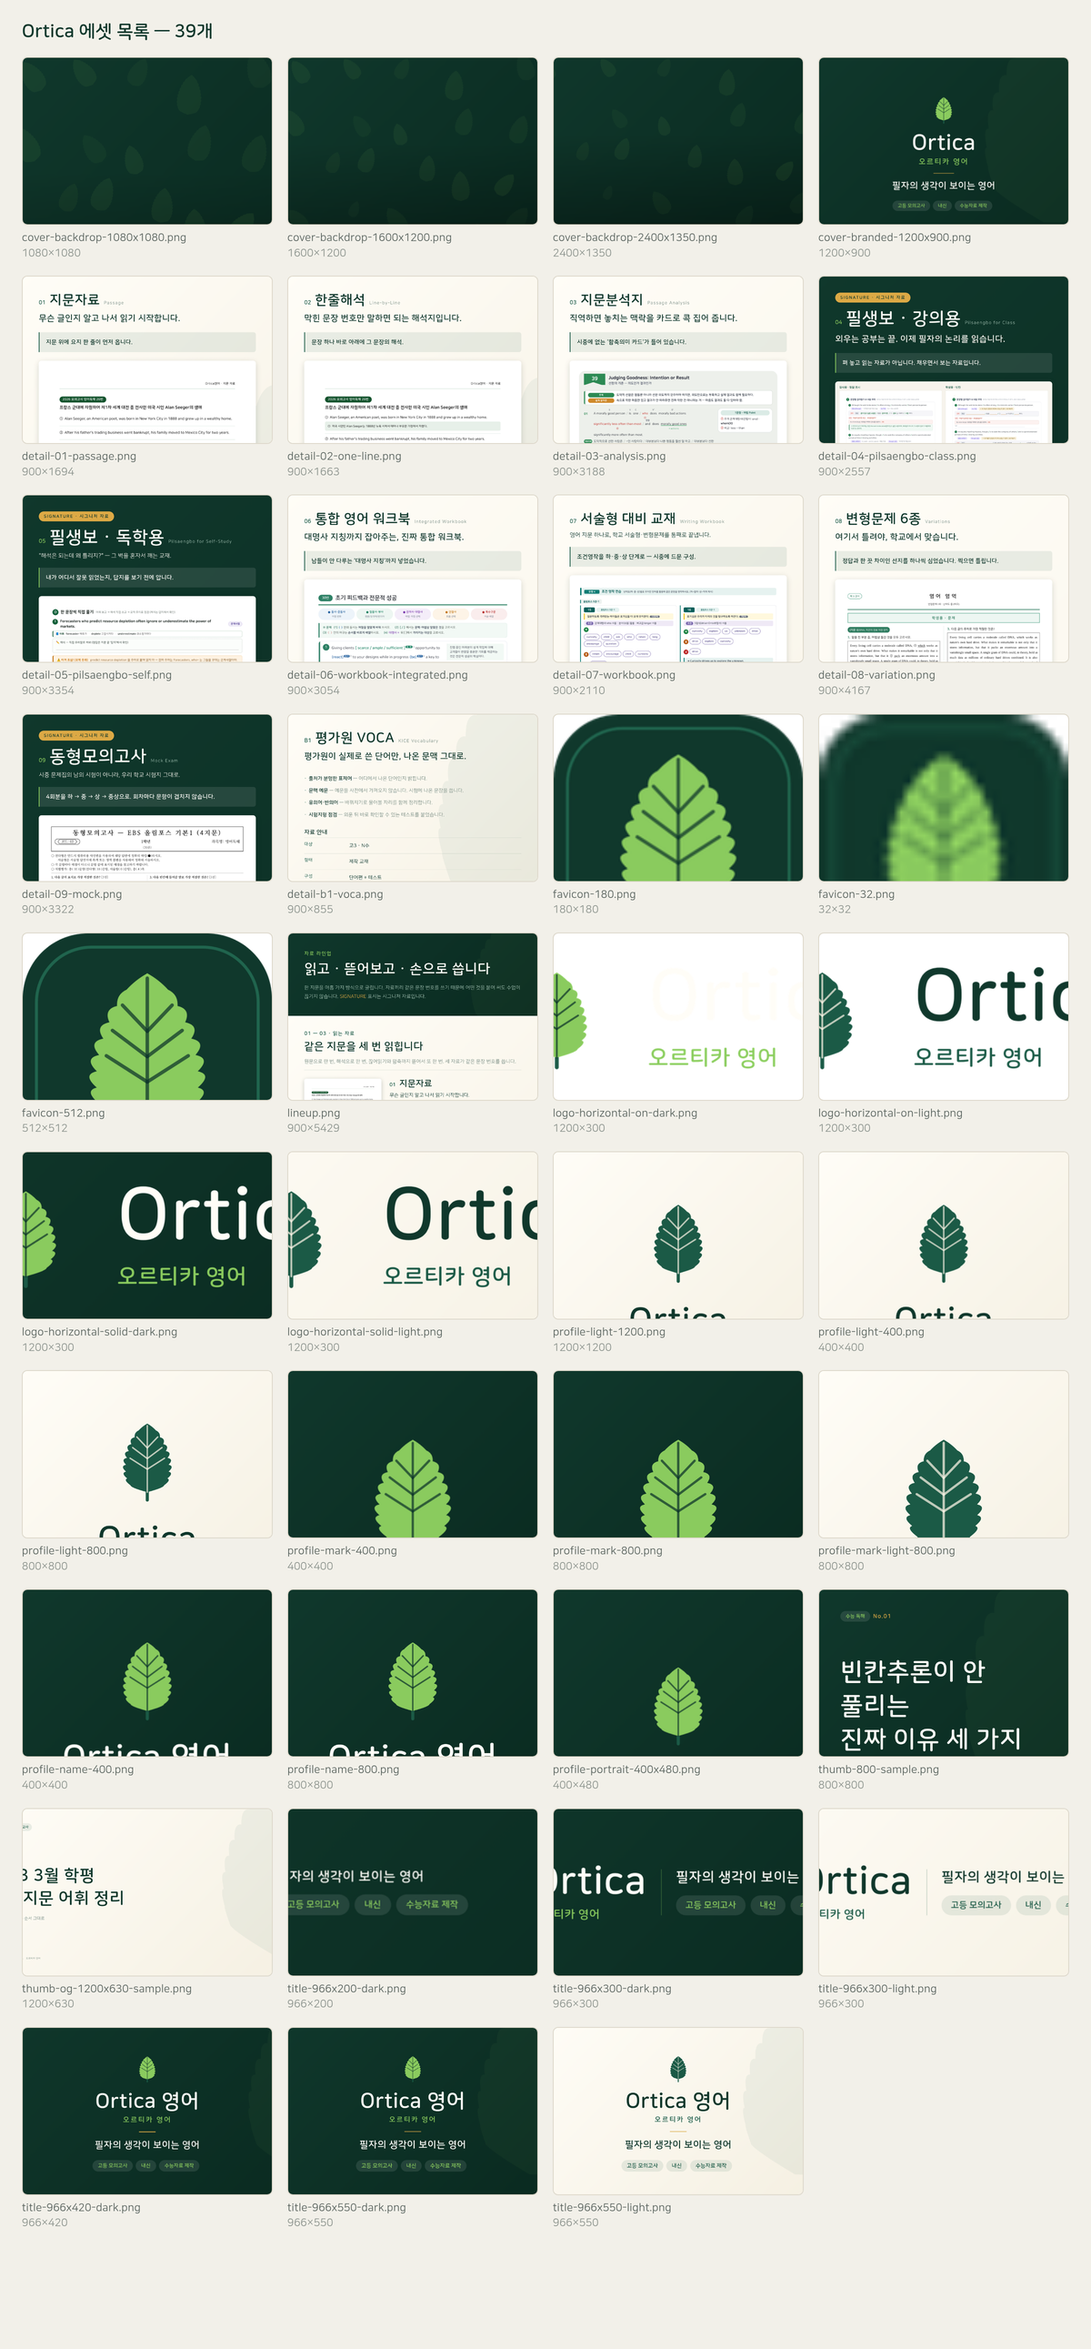
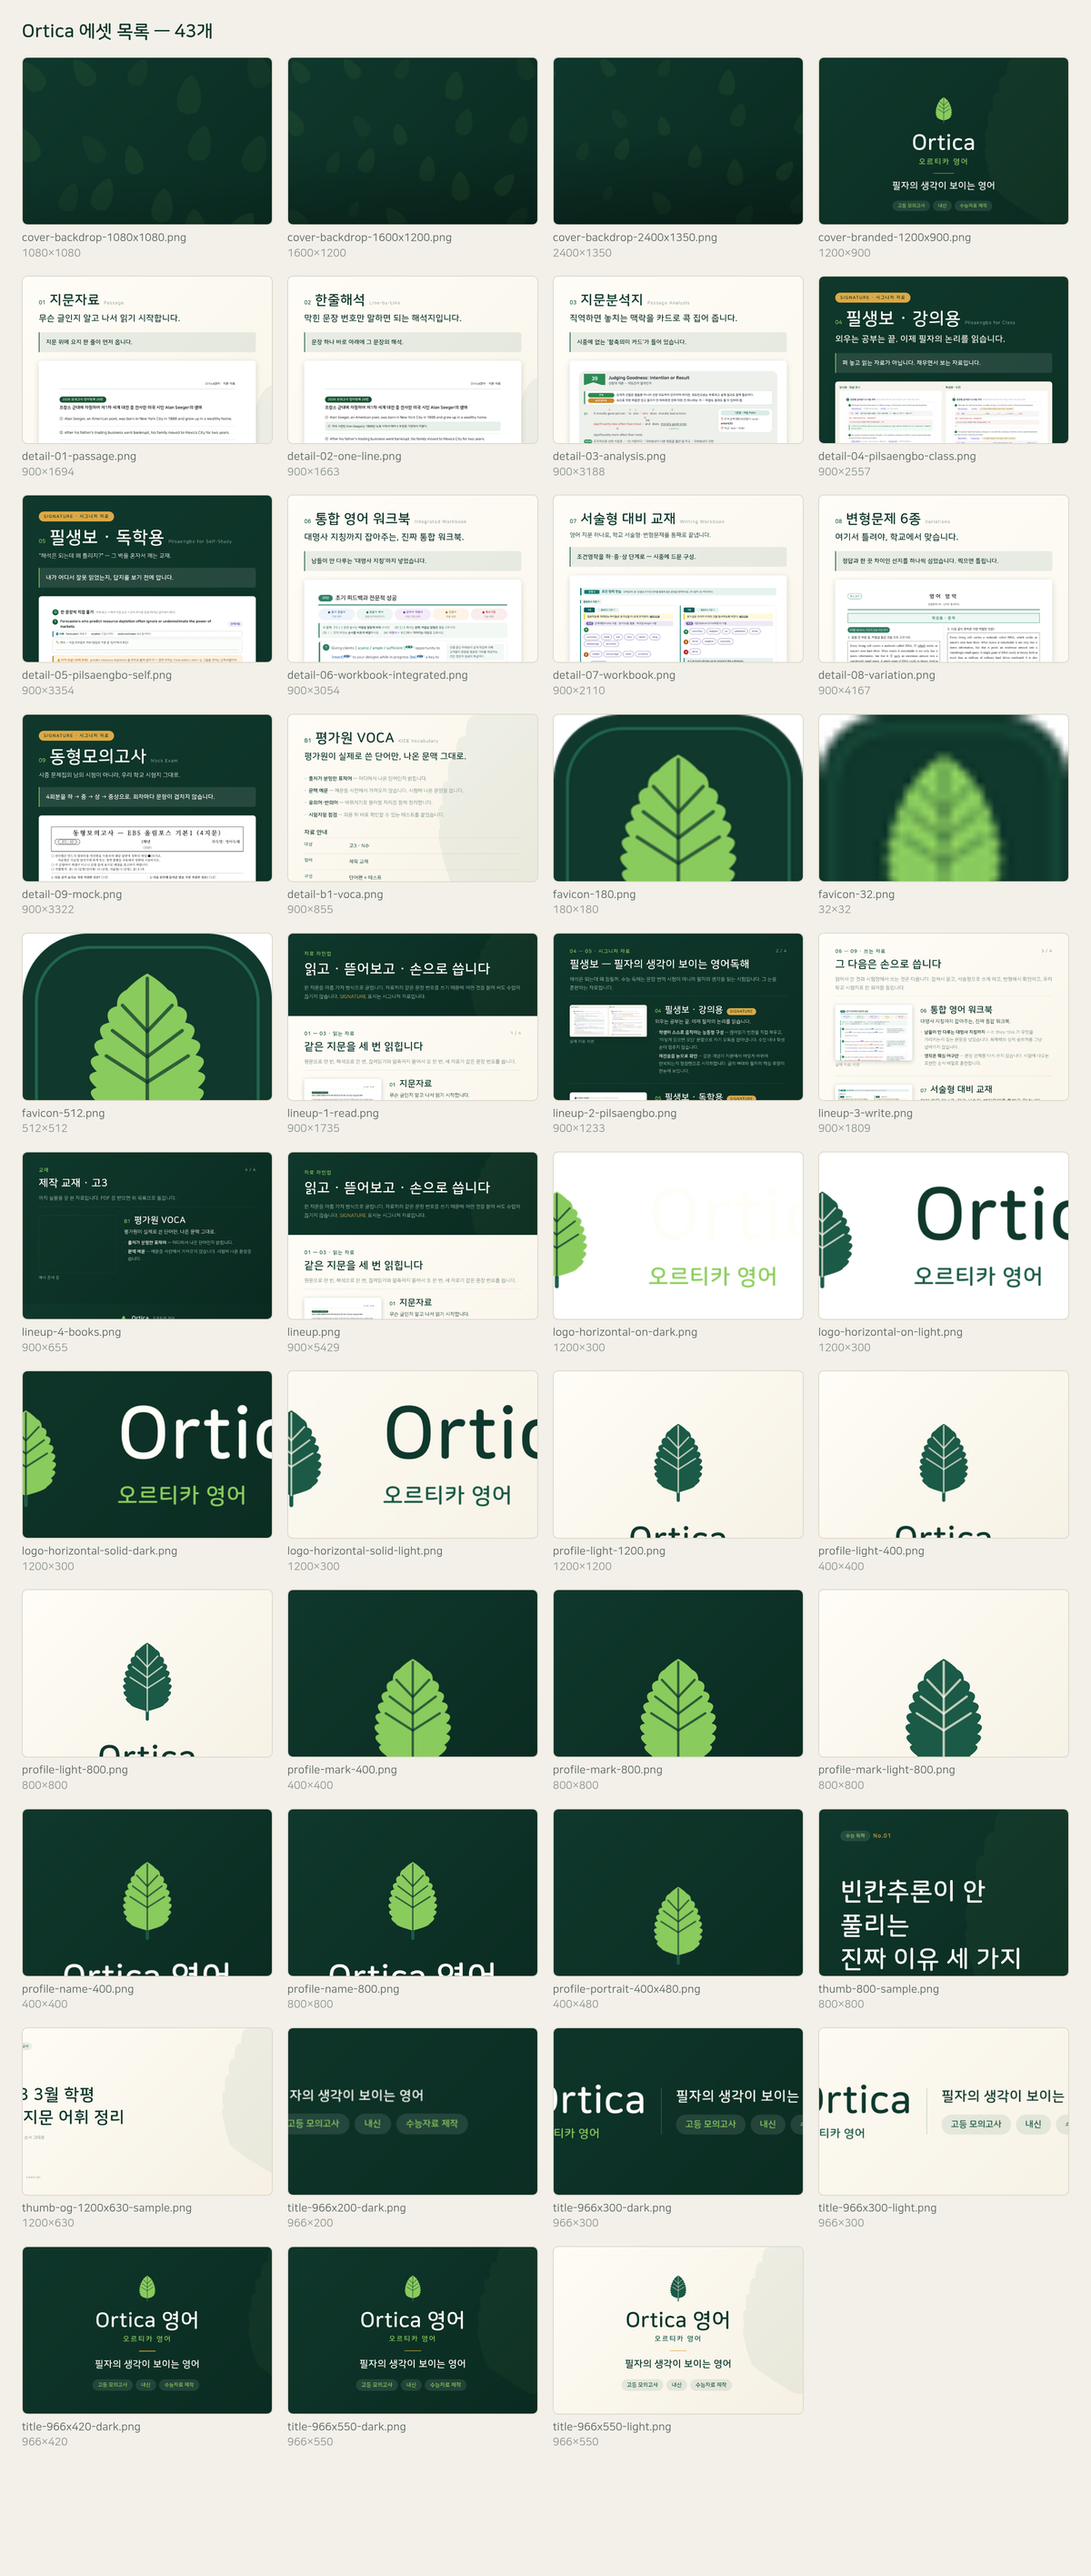
라인업을 묶음 경계에서 넷으로 자름
한 장(5,429px)은 올리기도 보기도 부담이다. 디자인은 한 흐름으로 두고 띠
경계에서만 자른다. 순서대로 올리면 이어진 한 장처럼 읽히고, 한 장으로
올리고 싶으면 lineup.png 를 그대로 쓰면 된다.

- build_lineup(part=i) — 그 묶음만. 머리말은 첫 조각에, 꼬리말은 마지막
  조각에만 붙는다. 조각에는 오른쪽 위에 '2 / 4' 순서 표시를 넣는다.
- lineup-1-read / -2-pilsaengbo / -3-write / -4-books 네 장 추가
- 00-lineup.md 가 네 조각을 묶음 순서대로 끼워 넣는다

Claude-Session: https://claude.ai/code/session_015BpsJgtaBR6xs1aCKnE4xw

diff --git a/brand/build.py b/brand/build.py
@@ -475,44 +475,57 @@ def lineup_sections():
     ]
 
 
-def build_lineup(width: int = DOC_W) -> tuple[str, int]:
-    """자료 전체 라인업 — 한 장.
+def build_lineup(width: int = DOC_W, part: int | None = None) -> tuple[str, int]:
+    """자료 라인업.
 
-    묶음마다 이미지를 나눠 두면 블로그에 올릴 때 순서가 흐트러지고, 읽는 사람은
-    어디까지가 한 목록인지 모른 채 끊긴다. 한 장에 다 세우고 묶음은 바탕색으로
-    가른다. 밝은 판과 어두운 판이 번갈아 나오면 어디서 묶음이 바뀌는지 보인다.
+    묶음마다 디자인을 새로 시작하면 어디까지가 한 목록인지 안 보인다. 그래서
+    한 흐름으로 짜 놓고 **묶음 경계에서만** 자른다. 바탕색이 밝은 판과 어두운
+    판으로 번갈아 가므로, 순서대로 올리면 이어진 한 장처럼 읽힌다.
+
+    part=None : 전부 이어 붙인 한 장
+    part=0..3 : 그 묶음만. 0 에는 머리말이, 마지막에는 꼬리말이 함께 붙는다.
     """
     u = width / 100
+    secs = lineup_sections()
+    chosen = list(enumerate(secs)) if part is None else [(part, secs[part])]
+    with_head = part is None or part == 0
+    with_foot = part is None or part == len(secs) - 1
 
     head_t = theme(True)
-    header = f"""<div style="position:relative;background:{head_t['bg']};
-      padding:{u * 7:.0f}px {u * 6.5:.0f}px {u * 6:.0f}px;overflow:hidden">
-      <svg xmlns="http://www.w3.org/2000/svg" viewBox="0 0 {width} {u * 46:.0f}"
-           width="{width}" height="{u * 46:.0f}"
-           style="position:absolute;inset:0;pointer-events:none">
-        <path d="{leaf_path(width * 0.86, u * 40, u * 62, u * 38, teeth=13, depth=0.055, tilt=18)}"
-              fill="{head_t['wm']}" fill-opacity="{head_t['wm_op']}"/></svg>
-      <div style="position:relative">
-        <div class="ko" style="font-size:{u * 2.0:.0f}px;color:{head_t['accent']};
-             letter-spacing:.12em">자료 라인업</div>
-        <div class="ko" style="margin-top:{u * 1.4:.0f}px;font-size:{u * 5.6:.0f}px;
-             color:{head_t['fg']};line-height:1.32;word-break:keep-all">
-          읽고 · 뜯어보고 · 손으로 씁니다</div>
-        <div class="sans" style="margin-top:{u * 2.0:.0f}px;font-size:{u * 2.05:.0f}px;
-             color:{head_t['muted']};line-height:1.75;word-break:keep-all">
-          한 지문을 아홉 가지 방식으로 굴립니다. 자료끼리 같은 문장 번호를 쓰기 때문에
-          어떤 것을 붙여 써도 수업이 끊기지 않습니다.
-          <span style="color:{P['gold']}">SIGNATURE</span> 표시는 시그니처 자료입니다.</div>
-      </div>
-    </div>"""
+    bands = []
+    if with_head:
+        bands.append(f"""<div style="position:relative;background:{head_t['bg']};
+          padding:{u * 7:.0f}px {u * 6.5:.0f}px {u * 6:.0f}px;overflow:hidden">
+          <svg xmlns="http://www.w3.org/2000/svg" viewBox="0 0 {width} {u * 46:.0f}"
+               width="{width}" height="{u * 46:.0f}"
+               style="position:absolute;inset:0;pointer-events:none">
+            <path d="{leaf_path(width * 0.86, u * 40, u * 62, u * 38, teeth=13, depth=0.055, tilt=18)}"
+                  fill="{head_t['wm']}" fill-opacity="{head_t['wm_op']}"/></svg>
+          <div style="position:relative">
+            <div class="ko" style="font-size:{u * 2.0:.0f}px;color:{head_t['accent']};
+                 letter-spacing:.12em">자료 라인업</div>
+            <div class="ko" style="margin-top:{u * 1.4:.0f}px;font-size:{u * 5.6:.0f}px;
+                 color:{head_t['fg']};line-height:1.32;word-break:keep-all">
+              읽고 · 뜯어보고 · 손으로 씁니다</div>
+            <div class="sans" style="margin-top:{u * 2.0:.0f}px;font-size:{u * 2.05:.0f}px;
+                 color:{head_t['muted']};line-height:1.75;word-break:keep-all">
+              한 지문을 아홉 가지 방식으로 굴립니다. 자료끼리 같은 문장 번호를 쓰기 때문에
+              어떤 것을 붙여 써도 수업이 끊기지 않습니다.
+              <span style="color:{P['gold']}">SIGNATURE</span> 표시는 시그니처 자료입니다.</div>
+          </div>
+        </div>""")
 
-    bands = [header]
-    for kicker, heading, caption, items, edge, dark in lineup_sections():
+    for i, (kicker, heading, caption, items, edge, dark) in chosen:
         t = theme(dark)
+        # 나눠 올린 조각도 몇 번째인지 보여야 순서가 안 흐트러진다.
+        step = ("" if part is None else
+                f'<span class="sans" style="float:right;font-size:{u * 1.7:.0f}px;'
+                f'color:{t["muted"]};letter-spacing:.10em">'
+                f'{i + 1} / {len(secs)}</span>')
         bands.append(f"""<div style="background:{t['bg']};
           padding:{u * 6:.0f}px {u * 6.5:.0f}px {u * 6:.0f}px">
           <div class="ko" style="font-size:{u * 2.0:.0f}px;color:{t['accent']};
-               letter-spacing:.10em">{kicker}</div>
+               letter-spacing:.10em">{kicker}{step}</div>
           <div class="ko" style="margin-top:{u * 1.2:.0f}px;font-size:{u * 4.2:.0f}px;
                color:{t['fg']};line-height:1.36;word-break:keep-all">{heading}</div>
           <div class="sans" style="margin-top:{u * 1.4:.0f}px;font-size:{u * 2.0:.0f}px;
@@ -522,9 +535,10 @@ def build_lineup(width: int = DOC_W) -> tuple[str, int]:
         </div>""")
 
     foot_t = theme(True)
-    bands.append(f"""<div style="background:{foot_t['bg']};
-      padding:{u * 4.5:.0f}px 0;display:flex;justify-content:center">
-      {signature(u * 3.2, True)}</div>""")
+    if with_foot:
+        bands.append(f"""<div style="background:{foot_t['bg']};
+          padding:{u * 4.5:.0f}px 0;display:flex;justify-content:center">
+          {signature(u * 3.2, True)}</div>""")
 
     def make(h: int, tail: str = "") -> str:
         body = (f'<div style="display:flex;flex-direction:column;'
@@ -532,6 +546,11 @@ def build_lineup(width: int = DOC_W) -> tuple[str, int]:
         return page(body, CSS, width, h)
 
     return autosize(make, width, 0)
+
+
+# 나눠 올릴 때 쓰는 파일 이름
+LINEUP_PARTS = ["lineup-1-read.png", "lineup-2-pilsaengbo.png",
+                "lineup-3-write.png", "lineup-4-books.png"]
 
 
 def spec_table(title: str, rows, t: dict[str, str], u: float,
@@ -767,7 +786,10 @@ def write_posts() -> list[Path]:
 
     (POSTS / "00-lineup.md").write_text(f"""# 자료 라인업
 
-{img('lineup.png')}
+<!-- 이미지는 아래 순서대로 넣으면 이어진 한 장처럼 보입니다.
+     한 장으로 올리려면 lineup.png 하나만 쓰세요. -->
+
+{img('lineup-1-read.png')}
 
 한 지문을 아홉 가지 방식으로 굴립니다. 자료끼리 같은 문장 번호를 쓰기 때문에
 어떤 것을 붙여 써도 수업이 끊기지 않습니다. 자료 한 종씩 자세히 보려면
@@ -783,6 +805,8 @@ def write_posts() -> list[Path]:
 
 ## 시그니처 자료 — 필생보 (04 — 05)
 
+{img('lineup-2-pilsaengbo.png')}
+
 {rows_of(MATERIALS[3:5])}
 
 ### 이 셋이 다른 점
@@ -791,6 +815,8 @@ def write_posts() -> list[Path]:
 
 ## 쓰는 자료 (06 — 09)
 
+{img('lineup-3-write.png')}
+
 {rows_of(MATERIALS[5:])}
 
 ### 이 셋이 다른 점
@@ -798,6 +824,8 @@ def write_posts() -> list[Path]:
 {edge_of(EDGE_EXAM)}
 
 ## 제작 교재
+
+{img('lineup-4-books.png')}
 
 {rows_of(BOOKS)}
 
@@ -916,6 +944,9 @@ def build_all() -> list[Path]:
     print("라인업")
     html, h = build_lineup()
     emit(made, "lineup.png", html, DOC_W, h)
+    for i, name in enumerate(LINEUP_PARTS):
+        html, h = build_lineup(part=i)
+        emit(made, name, html, DOC_W, h)
 
     print("포스트 썸네일 샘플")
     emit(made, "thumb-800-sample.png",
@@ -935,7 +966,7 @@ def main() -> None:
     sub.add_parser("all", help="전체 세트 생성")
     sub.add_parser("posts", help="블로그 원고 초안만 다시 생성")
     sub.add_parser("index", help="전체 결과물 목록표 한 장 생성")
-    sub.add_parser("lineup", help="전체 라인업 한 장만 다시 생성")
+    sub.add_parser("lineup", help="라인업(한 장 + 나눈 조각)만 다시 생성")
 
     one = sub.add_parser("item", help="자료 하나의 상세페이지만 다시 생성")
     one.add_argument("key", help=f"자료 키 ({', '.join(BY_KEY)})")
@@ -973,6 +1004,9 @@ def main() -> None:
         made: list[Path] = []
         html, h = build_lineup()
         emit(made, "lineup.png", html, DOC_W, h)
+        for i, name in enumerate(LINEUP_PARTS):
+            html, h = build_lineup(part=i)
+            emit(made, name, html, DOC_W, h)
         return
 
     if args.cmd == "item":

diff --git a/brand/README.md b/brand/README.md
@@ -127,7 +127,11 @@ brand/
 
 ```
 detail-04-pilsaengbo-class.png    자료 한 종 = 상세페이지 한 장
-lineup.png                        자료 전체 라인업 = 이미지 한 장 (900×5285)
+lineup.png                        라인업 전체 한 장 (900×5429)
+lineup-1-read.png                 └ 나눈 조각 — 머리말 + 01-03   (900×1735)
+lineup-2-pilsaengbo.png             04-05                      (900×1233)
+lineup-3-write.png                  06-09                      (900×1809)
+lineup-4-books.png                  교재 + 꼬리말              (900×655)
 posts/04-pilsaengbo-class.md      본문 원고 초안
 ```
 
@@ -147,20 +151,25 @@ posts/04-pilsaengbo-class.md      본문 원고 초안
 가격 (catalog.py 에 넣으면 나옵니다)
 ```
 
-**라인업도 한 장**입니다. 묶음마다 이미지를 나눠 두면 블로그에 올릴 때 순서가
-흐트러지고, 읽는 사람은 어디까지가 한 목록인지 모른 채 끊깁니다. 한 장에 다
-세우고 묶음은 **바탕색으로** 가릅니다 — 밝은 판과 어두운 판이 번갈아 나오면
-어디서 묶음이 바뀌는지 눈에 보입니다.
+**라인업은 한 흐름으로 짜고 묶음 경계에서만 자릅니다.** 묶음마다 디자인을
+새로 시작하면 어디까지가 한 목록인지 안 보입니다. 그래서 띠를 쌓아 한 장으로
+짠 다음, 그 띠 경계에서 넷으로 나눕니다. 순서대로 올리면 이어진 한 장처럼
+읽히고, 한 장으로 올리고 싶으면 `lineup.png` 하나만 쓰면 됩니다.
 
 ```
-머리말 (어두움)          읽고 · 뜯어보고 · 손으로 씁니다
-01 — 03 읽는 자료 (밝음)   실물 썸네일 + 한 줄 + 특징 2줄 · 이 셋이 다른 점
-04 — 05 시그니처 (어두움)  필생보
-06 — 09 쓰는 자료 (밝음)
-교재 (어두움)             B1
+머리말 (어두움)          읽고 · 뜯어보고 · 손으로 씁니다   ┐ lineup-1
+01 — 03 읽는 자료 (밝음)   썸네일 + 한 줄 + 특징 2줄 · 다른 점 ┘
+04 — 05 시그니처 (어두움)  필생보                            → lineup-2
+06 — 09 쓰는 자료 (밝음)                                     → lineup-3
+교재 (어두움) + 꼬리말     B1                                → lineup-4
 ```
 
-묶음 구성은 `build.py` 의 `lineup_sections()` 하나만 고치면 됩니다.
+바탕색이 밝은 판과 어두운 판으로 번갈아 가므로 어디서 묶음이 바뀌는지 눈에
+보입니다. 조각 오른쪽 위의 `2 / 4` 는 올리는 순서가 흐트러지지 않게 하려는
+표시라, 이어 붙인 `lineup.png` 에는 나오지 않습니다.
+
+묶음 구성은 `build.py` 의 `lineup_sections()` 하나만 고치면 됩니다. 조각 파일
+이름은 그 아래 `LINEUP_PARTS` 입니다.
 
 **시그니처 자료**는 `catalog.py` 의 `signature=True` 로 정합니다. 지금은
 필생보 강의용·독학용과 동형모의고사 셋입니다. 라인업에서는 이름 옆에
